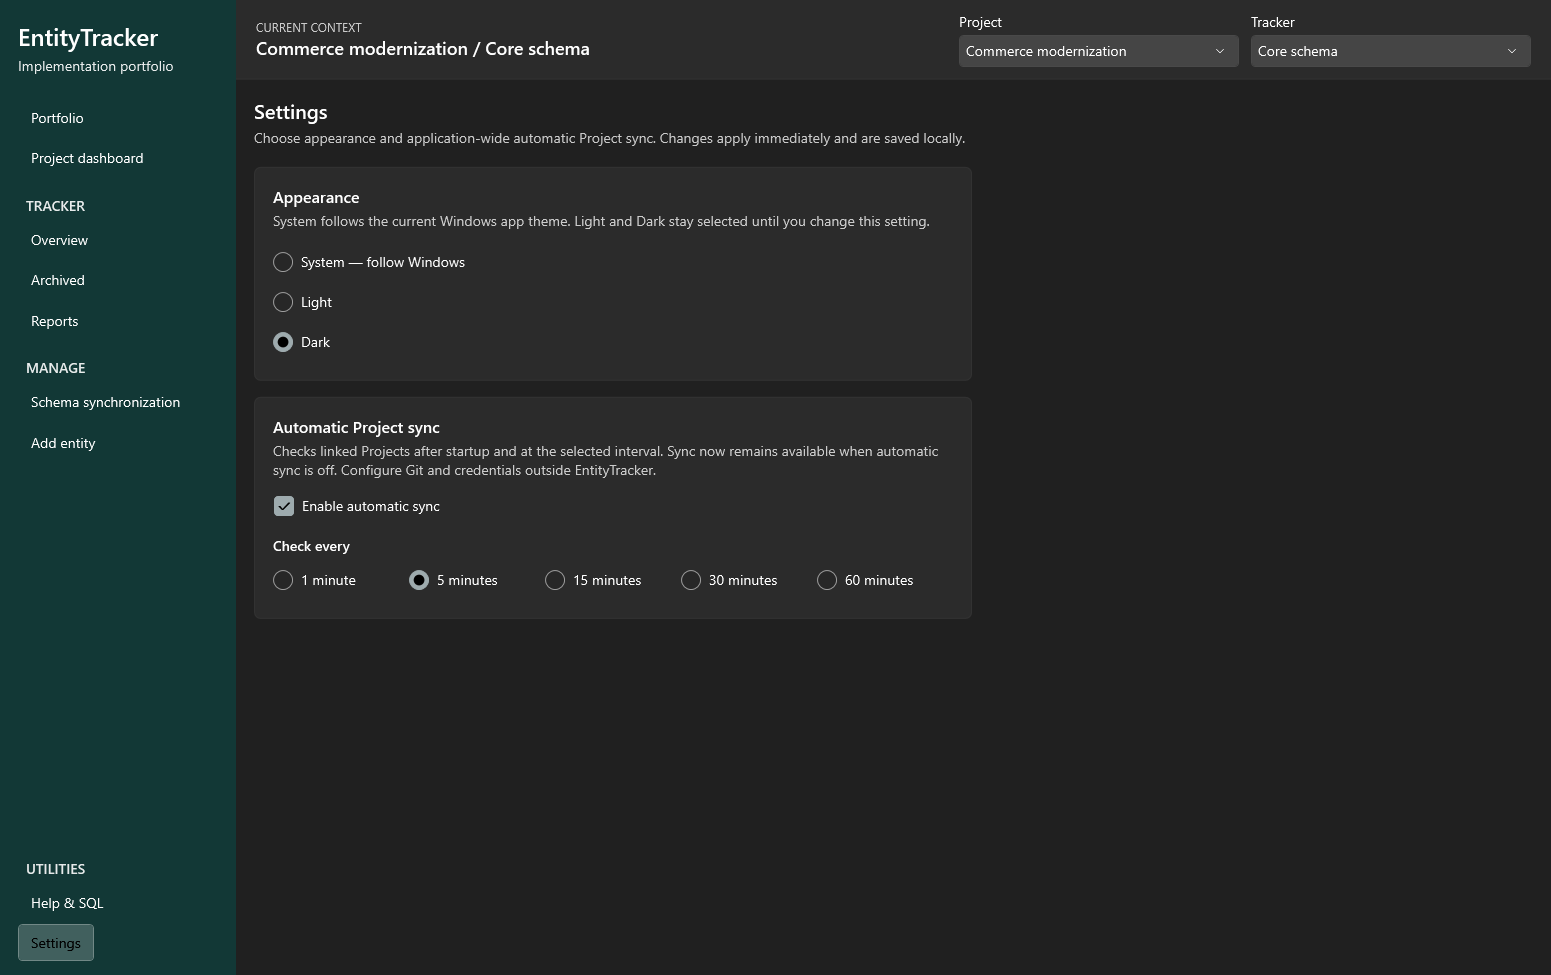
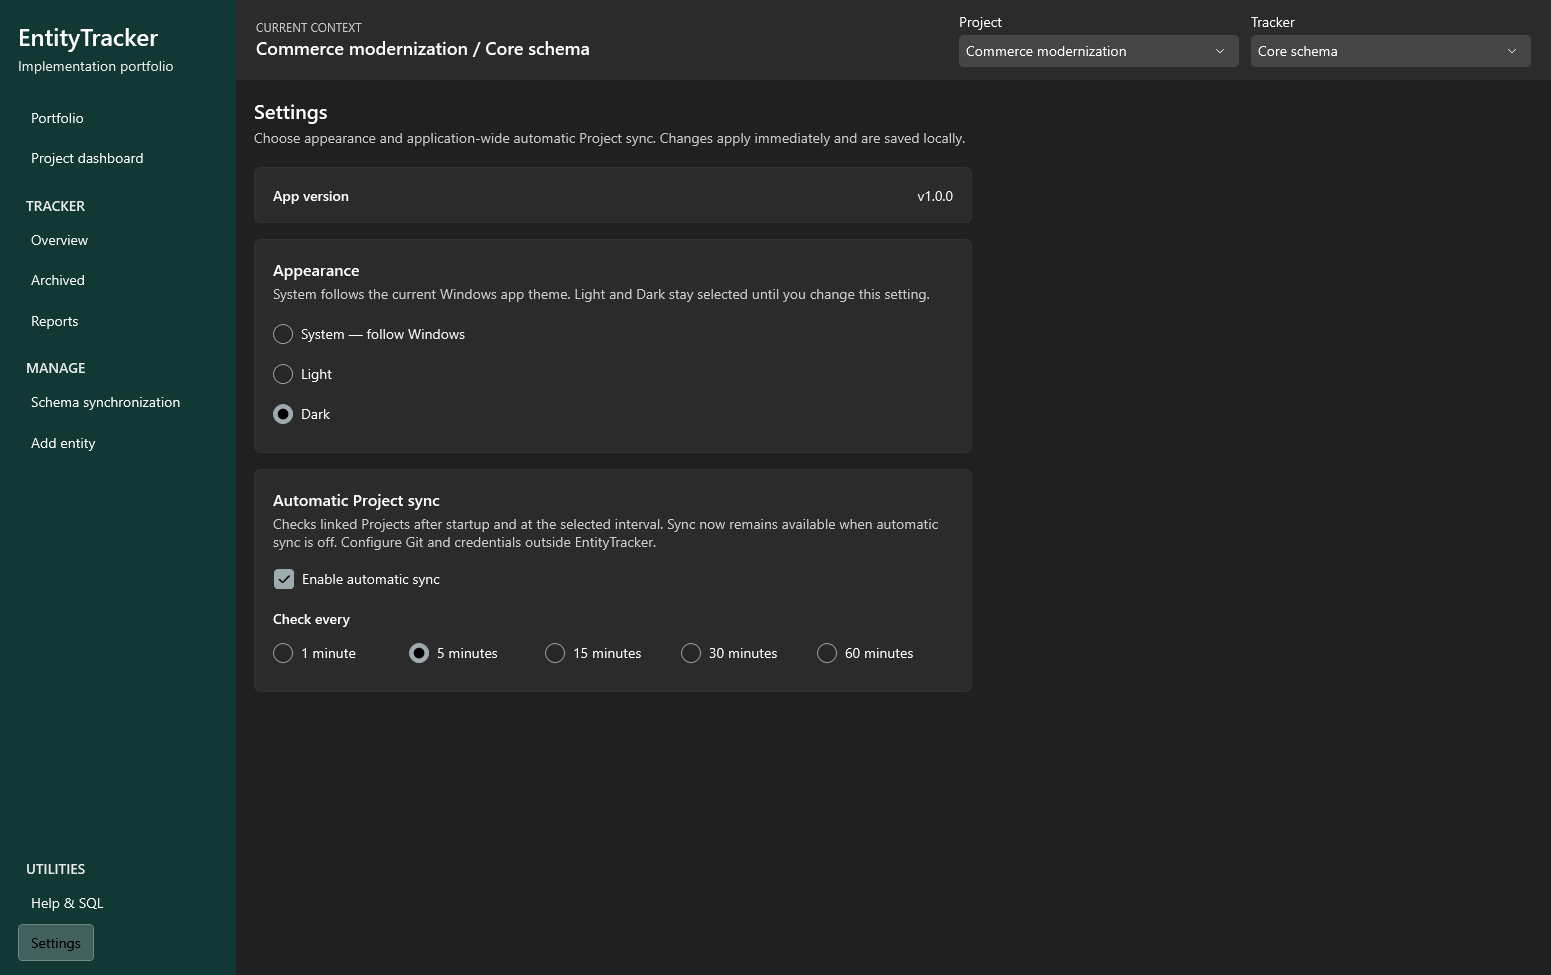
Add app version number to settings page (#28)
* Add app version number to settings page

* Update app versioning to display development build

* Update screenshots

diff --git a/src/EntityTracker.Wpf/Views/SettingsView.xaml b/src/EntityTracker.Wpf/Views/SettingsView.xaml
@@ -3,10 +3,24 @@
              xmlns:x="http://schemas.microsoft.com/winfx/2006/xaml"
              xmlns:configuration="clr-namespace:EntityTracker.Infrastructure.Configuration;assembly=EntityTracker.Infrastructure"
              xmlns:viewModels="clr-namespace:EntityTracker.Wpf.ViewModels">
+    <ScrollViewer VerticalScrollBarVisibility="Auto"
+                  HorizontalScrollBarVisibility="Disabled">
     <StackPanel MaxWidth="720" HorizontalAlignment="Left">
         <TextBlock Style="{StaticResource PageHeadingTextStyle}" Text="Settings" />
         <TextBlock Margin="0,4,0,20" Style="{StaticResource PageDescriptionTextStyle}"
                    Text="Choose appearance and application-wide automatic Project sync. Changes apply immediately and are saved locally." />
+        <Border Margin="0,0,0,16" Padding="18" Style="{StaticResource EntityTrackerCardStyle}">
+            <Grid>
+                <Grid.ColumnDefinitions>
+                    <ColumnDefinition Width="*" />
+                    <ColumnDefinition Width="Auto" />
+                </Grid.ColumnDefinitions>
+                <TextBlock FontWeight="SemiBold" Text="App version" />
+                <TextBlock Grid.Column="1"
+                           AutomationProperties.Name="{Binding AppVersion, StringFormat=App version {0}}"
+                           Text="{Binding AppVersion}" />
+            </Grid>
+        </Border>
         <Border Padding="18" Style="{StaticResource EntityTrackerCardStyle}">
             <StackPanel>
                 <TextBlock Margin="0,0,0,4" Style="{StaticResource SectionHeadingTextStyle}" Text="Appearance" />
@@ -69,4 +83,5 @@
             </StackPanel>
         </Border>
     </StackPanel>
+    </ScrollViewer>
 </UserControl>

diff --git a/tests/EntityTracker.Wpf.Tests/ViewModels/AppVersionFormatterTests.cs b/tests/EntityTracker.Wpf.Tests/ViewModels/AppVersionFormatterTests.cs
@@ -1,0 +1,49 @@
+using System.Reflection;
+using System.Reflection.Emit;
+
+using EntityTracker.Wpf.ViewModels;
+
+namespace EntityTracker.Wpf.Tests.ViewModels;
+
+public sealed class AppVersionFormatterTests
+{
+    [Fact]
+    public void AssemblyWithoutExplicitVersionShowsDevelopmentBuild()
+    {
+        Assembly assembly = CreateAssembly(new Version(1, 0, 0, 0));
+
+        Assert.Equal("Development build", AppVersionFormatter.ForAssembly(assembly));
+    }
+
+    [Fact]
+    public void ExplicitVersionShowsMajorMinorAndPatch()
+    {
+        Assembly assembly = CreateAssembly(new Version(2, 3, 4, 0), "true");
+
+        Assert.Equal("v2.3.4", AppVersionFormatter.ForAssembly(assembly));
+    }
+
+    [Fact]
+    public void OnlyTrueExplicitVersionMarkerCountsAsRelease()
+    {
+        Assembly assembly = CreateAssembly(new Version(2, 3, 4, 0), "false");
+
+        Assert.Equal("Development build", AppVersionFormatter.ForAssembly(assembly));
+    }
+
+    private static Assembly CreateAssembly(Version version, string? explicitVersion = null)
+    {
+        AssemblyName name = new($"AppVersionTest_{Guid.NewGuid():N}") { Version = version };
+        AssemblyBuilder assembly = AssemblyBuilder.DefineDynamicAssembly(name, AssemblyBuilderAccess.Run);
+        if (explicitVersion is not null)
+        {
+            ConstructorInfo constructor = typeof(AssemblyMetadataAttribute)
+                .GetConstructor([typeof(string), typeof(string)])!;
+            assembly.SetCustomAttribute(new CustomAttributeBuilder(
+                constructor,
+                ["EntityTracker.ExplicitVersion", explicitVersion]));
+        }
+
+        return assembly;
+    }
+}

diff --git a/tests/EntityTracker.Wpf.Tests/PresentationConfigurationTests.cs b/tests/EntityTracker.Wpf.Tests/PresentationConfigurationTests.cs
@@ -6,6 +6,19 @@ namespace EntityTracker.Wpf.Tests;
 public sealed class PresentationConfigurationTests
 {
     [Fact]
+    public void SettingsDisplaysAppVersion()
+    {
+        XDocument settings = LoadWpfXaml("Views", "SettingsView.xaml");
+
+        Assert.Contains(settings.Descendants(), element =>
+            element.Name.LocalName == "TextBlock" &&
+            (string?)element.Attribute("Text") == "App version");
+        Assert.Contains(settings.Descendants(), element =>
+            element.Name.LocalName == "TextBlock" &&
+            (string?)element.Attribute("Text") == "{Binding AppVersion}");
+    }
+
+    [Fact]
     public void AutomaticSyncSettingsAndProjectStatusAreAccessible()
     {
         XDocument settings = LoadWpfXaml("Views", "SettingsView.xaml");

diff --git a/src/EntityTracker.Wpf/ViewModels/AppVersionFormatter.cs b/src/EntityTracker.Wpf/ViewModels/AppVersionFormatter.cs
@@ -1,0 +1,20 @@
+using System.Reflection;
+
+namespace EntityTracker.Wpf.ViewModels;
+
+internal static class AppVersionFormatter
+{
+    internal static string ForAssembly(Assembly assembly)
+    {
+        ArgumentNullException.ThrowIfNull(assembly);
+
+        bool versionSpecified = assembly.GetCustomAttributes<AssemblyMetadataAttribute>()
+            .Any(static attribute => attribute.Key == "EntityTracker.ExplicitVersion" &&
+                attribute.Value == "true");
+        if (!versionSpecified) return "Development build";
+
+        return assembly.GetName().Version is { } version
+            ? $"v{version.Major}.{version.Minor}.{Math.Max(version.Build, 0)}"
+            : "Version unavailable";
+    }
+}

diff --git a/src/EntityTracker.Wpf/ViewModels/ShellViewModel.cs b/src/EntityTracker.Wpf/ViewModels/ShellViewModel.cs
@@ -120,6 +120,8 @@ public sealed class ShellViewModel : INotifyPropertyChanged, IDisposable
     public IReadOnlyList<ShellNavigationItem> NavigationItems { get; }
     public IReadOnlyList<ProjectSyncLink> PendingProjectDeletions => _pendingProjectDeletions;
 
+    public string AppVersion => AppVersionFormatter.ForAssembly(typeof(App).Assembly);
+
     public CatalogManagementViewModel Catalog { get; }
 
     public AppearanceViewModel Appearance { get; }

diff --git a/docs/DEVELOPMENT.md b/docs/DEVELOPMENT.md
@@ -165,7 +165,8 @@ repeatable. From the repository root, generate a preview set with:
 ```
 
 The default preview is written to `artifacts\readme-screenshots`, with complete `dark` and `light`
-subdirectories, and is ignored by Git. You can choose another preview directory without replacing
+subdirectories, and is ignored by Git. Screenshots use the sample app version `1.0.0` by default;
+pass `-Version` to show another version. You can choose another preview directory without replacing
 unrelated files:
 
 ```powershell
